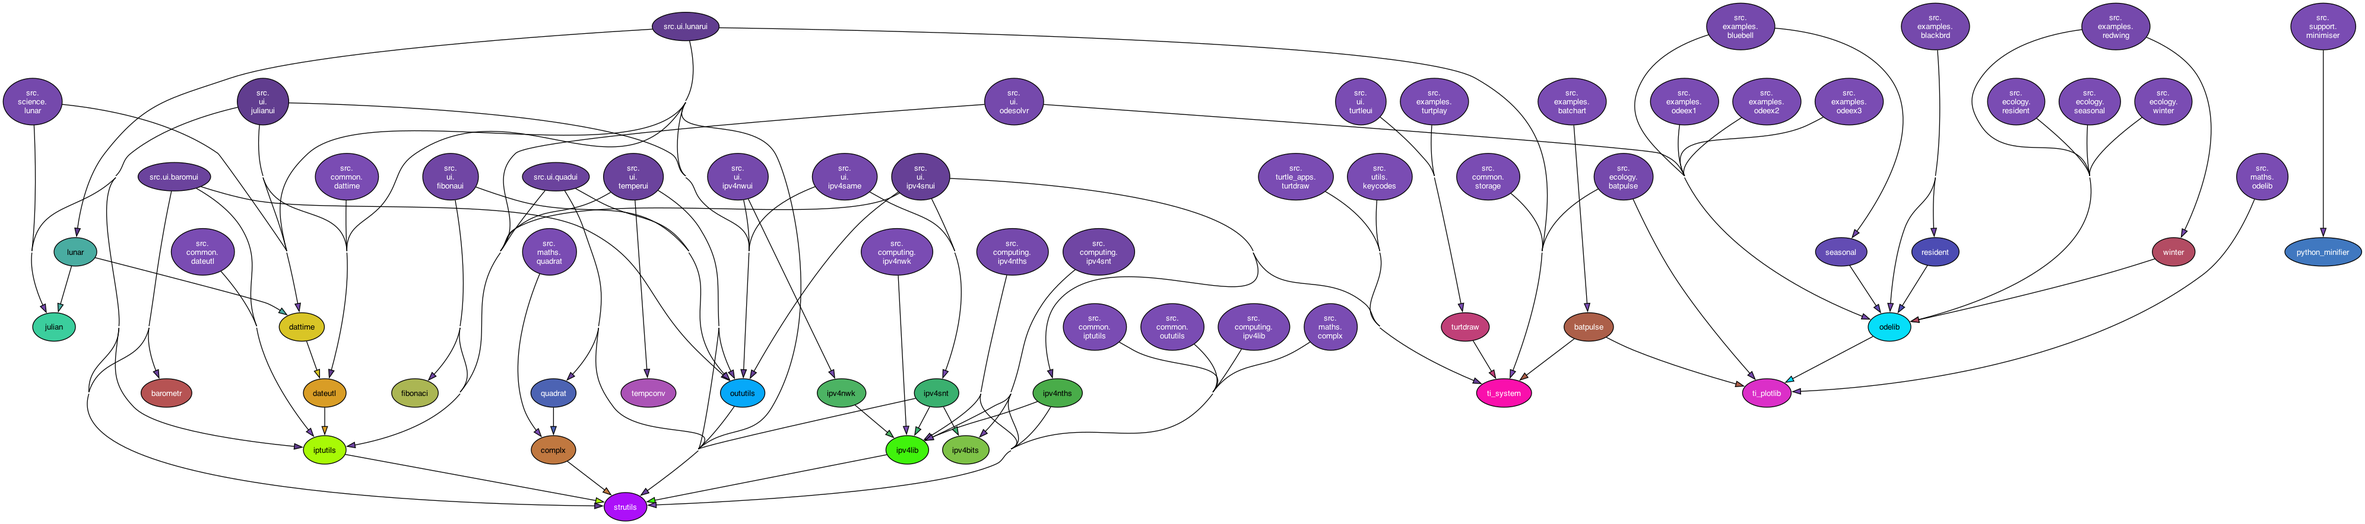
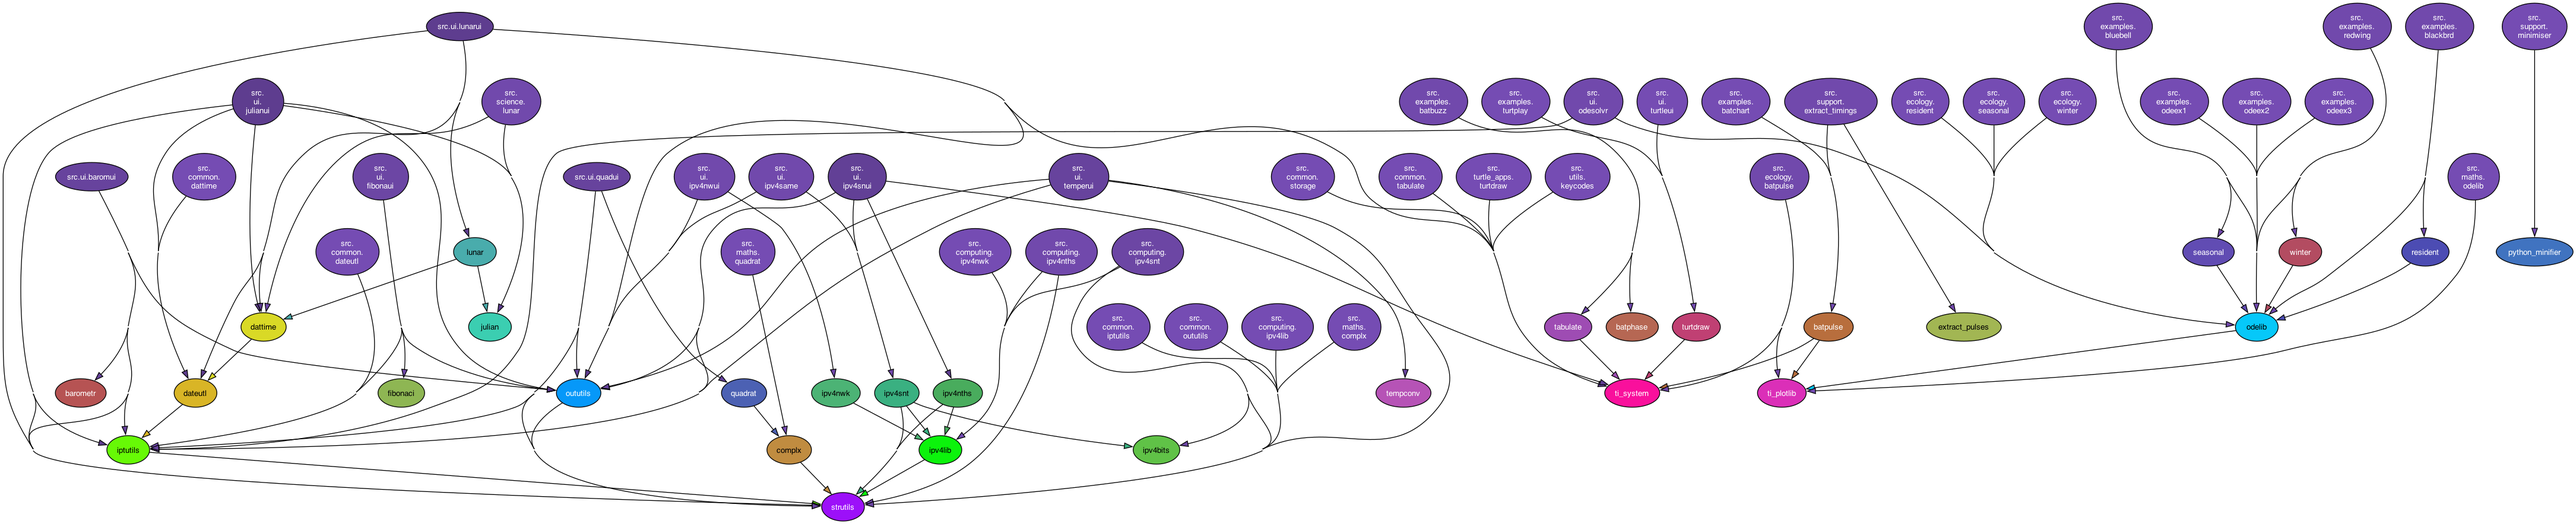
Add bat call classification based on phases

diff --git a/src/support/extract_timings.py b/src/support/extract_timings.py
@@ -1,3 +1,60 @@
+r"""
+Utility script to build a launcher script for the bat call phase analyser.
+
+The input is a JSON format analysis file generated by the Spectrogram Viewer bat call
+recording analyser. A cut-down version of a file, illustrating only the fields
+required by this utility, is shown below:
+
+.. code-block:: json
+
+    {
+        "input": "BD-A-99-001.wav",
+        "analysis_mode": "time-expansion",
+        "pulses": [
+            {
+                "real_start_time_s": 0.007501133786848073,
+                "real_end_time_s": 0.00943310657596372,
+                "real_peak_time_s": 0.008090702947845805,
+            }
+        ]
+    }
+
+The "input" (or "input_file") field specifies the filename for the original recording. The
+"analysis_mode" may be "heterodyne" or "time-expansion" and the "pulses" field specifies
+a list of pulse objects. Only the fields shown, above, are used by this tool
+
+This script reads the JSON file and cconverts the list of pulses into a to a Tuple of values::
+
+    (start, end, peak, start, end, peak, ...)
+
+This information is then passed to the pulse timing analyser that generates the following
+information for each pulse:
+
+- List of pulse widths
+- List of pulse repetition interval (PRI) values
+- List of delta-PRI (DPRI) values
+
+The timing information is then written to the launcher script necessary to run the bat call
+phase analyser.
+
+Example usage from the root folder of the project::
+
+    python src/support/extract_timings.py -i data/spectrogram/BD-A-99-001-analysis.json -o src/examples/batbuzz.py
+
+A utility script is provided in the "scripts" folder to run the minimiser::
+
+    scripts/extract-timings.sh -i data/spectrogram/BD-A-99-001-analysis.json -o src/examples/batbuzz.py
+
+The resulting script can then be minified and transferred to the calculator along with
+the bat phase analysis library module and then run to generate the pulse characteristics.
+
+For more information on the Bat Call Analyser, Phase Analyser and Spectrogram Viewer see:
+
+- The Spectrogram Viewer repository - https://github.com/davewalker5/SpectrogramViewer
+- The Field Notes Journal web site - https://fieldnotesjournal.uk
+"""
+
+
 import argparse
 import os
 from pathlib import Path

diff --git a/src/ecology/batphase.py b/src/ecology/batphase.py
@@ -36,6 +36,11 @@ species identity and is intended as a lightweight ecological timing
 analysis suitable for constrained computational environments.
 """
 
+SEARCH = "SEARCH"
+APPROACH = "APPROACH"
+BUZZ = "BUZZ"
+EXIT = "EXIT"
+
 
 def median(values):
     """
@@ -132,10 +137,10 @@ def detect_feeding_buzz_phases(widths, pri, dpri):
     :param widths: Pulse widths
     :param pri: Pulse repetition intervals
     :param dpri: Delta PRI values
-    :return: Tuple of a list of behavioural phase labels and the phase regions
+    :return: Tuple of a list of phase labels, phase regions and the classification
     """
     n = len(widths)
-    phases = ["SEARCH"] * n
+    phases = [SEARCH] * n
 
     if n < 6:
         return phases, build_regions(phases)
@@ -218,7 +223,7 @@ def detect_feeding_buzz_phases(widths, pri, dpri):
     buzz_end = min(buzz_pri_end + 1, n - 1)
 
     for i in range(buzz_start, buzz_end + 1):
-        phases[i] = "BUZZ"
+        phases[i] = BUZZ
 
     # Walk backwards to find approach
     approach_start = buzz_start
@@ -238,9 +243,17 @@ def detect_feeding_buzz_phases(widths, pri, dpri):
             break
 
     for i in range(approach_start, buzz_start):
-        phases[i] = "APPROACH"
+        phases[i] = APPROACH
 
     for i in range(buzz_end + 1, n):
-        phases[i] = "EXIT"
+        phases[i] = EXIT
 
-    return phases, build_regions(phases)
+    # Classify the sequence
+    if BUZZ in phases:
+        classification = "FEEDING BUZZ"
+    elif APPROACH in phases:
+        classification = "APPROACH ONLY"
+    else:
+        classification = "SEARCH ONLY"
+
+    return phases, build_regions(phases), classification

diff --git a/src/examples/batbuzz.py b/src/examples/batbuzz.py
@@ -11,10 +11,13 @@ PRI = (0.08707482993197277, 0.09188208616780047, 0.0875283446712018, 0.087120181
 DPRI = (None, 0.0048072562358277005, -0.004353741496598673, -0.00040816326530607183, 0.0034013605442176353, -0.00040816326530607183, 0.005487528344671144, -0.0161904761904762, 0.007981859410430947, 0.002630385487528253, -0.005578231292517, -0.002585034013605436, 0.006167800453514838, -0.005396825396825511, 0.0014058956916098708, -0.02013605442176858, 0.021995464852607727, -0.012471655328798237, -0.02208616780045336, 0.006303854875283177, -0.014285714285714013, 0.0022222222222221255, -0.01673469387755122, 0.01496598639455815, -0.009523809523809712, -0.006349206349206327, 0.35124716553287993, -0.3011791383219957, 0.007845804988662497, -0.0068480725623585315, 0.004308390022675468, -0.001360544217686499, -0.0037641723356012236, -0.006349206349206327, 0.010748299319728094, -0.0011337868480727487, 0.003401360544217358, 0.005804988662132082, 0.027346938775509866, -0.027755102040816215, 0.002585034013605547, -0.003356009070294874, -0.00031746031746049397, -0.00335600907029443, 0.00244897959183632, 0.0009070294784585542, -0.0008616780045356265, 0.009841269841270428, -0.005668934240363299, None)
 
 #: Detect the feeding buzz phases
-_, regions = detect_feeding_buzz_phases(WIDTHS, PRI, DPRI)
+_, regions, classification = detect_feeding_buzz_phases(WIDTHS, PRI, DPRI)
 
 #: Build the phase table
 table = build_table(regions, ("Phase", "Start", "End", "Length"))
 
 #: Print the phase table
 print_table(table)
+print()
+print(classification)
+print()

diff --git a/src/support/extract_pulses.py b/src/support/extract_pulses.py
@@ -28,7 +28,7 @@ This script reads the JSON file and cconverts the list of pulses into a to a Tup
     (start, end, peak, start, end, peak, ...)
 
 The pulse information is then written to the launcher script necessary to run the bat call
-analysed.
+pulse timing analyser.
 
 Example usage from the root folder of the project::
 
@@ -39,7 +39,7 @@ A utility script is provided in the "scripts" folder to run the minimiser::
     scripts/extract-pulses.sh -i data/spectrogram/BD-A-99-001-analysis.json -o src/examples/batchart.py
 
 The resulting script can then be minified and transferred to the calculator along with
-the Bat Pulse analysis library module and then run to graph the pulse characteristics.
+the bat pulse analysis library module and then run to graph the pulse characteristics.
 
 For more information on the Bat Call Analyser and Spectrogram Viewer see:
 

diff --git a/data/templates/bat_phase_analysis.py b/data/templates/bat_phase_analysis.py
@@ -11,10 +11,13 @@ PRI = $PRI
 DPRI = $DPRI
 
 #: Detect the feeding buzz phases
-_, regions = detect_feeding_buzz_phases(WIDTHS, PRI, DPRI)
+_, regions, classification = detect_feeding_buzz_phases(WIDTHS, PRI, DPRI)
 
 #: Build the phase table
 table = build_table(regions, ("Phase", "Start", "End", "Length"))
 
 #: Print the phase table
 print_table(table)
+print()
+print(classification)
+print()
